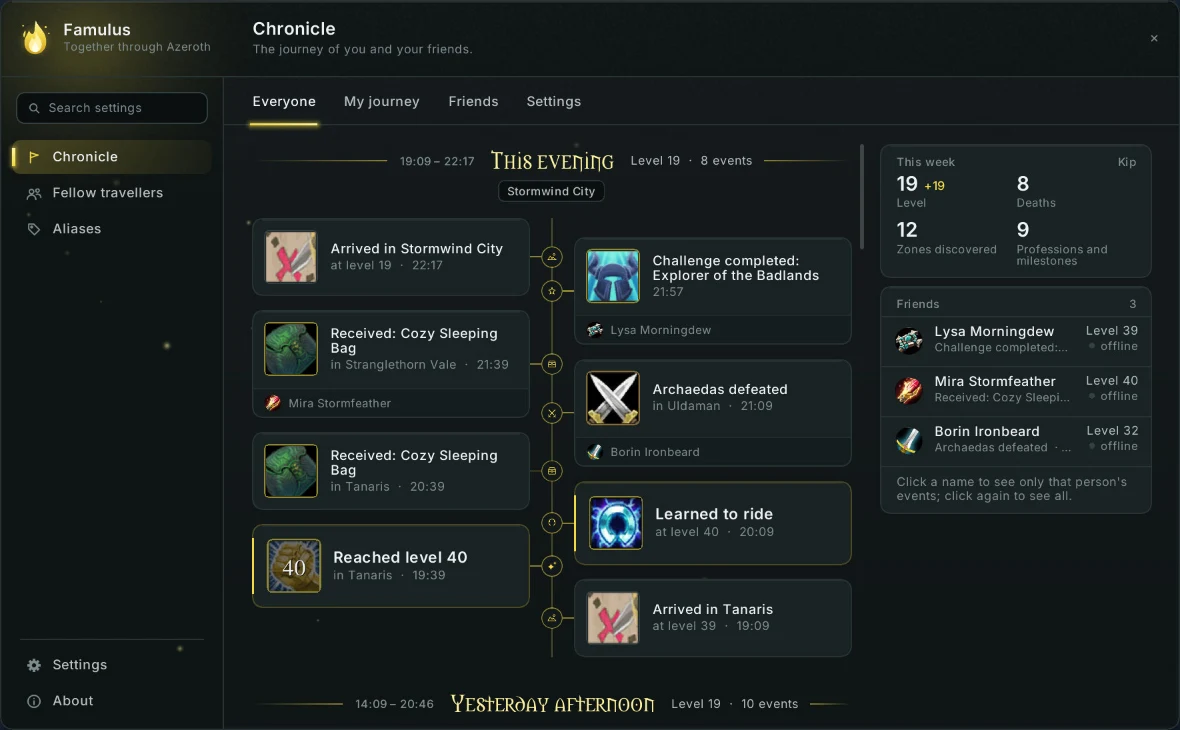
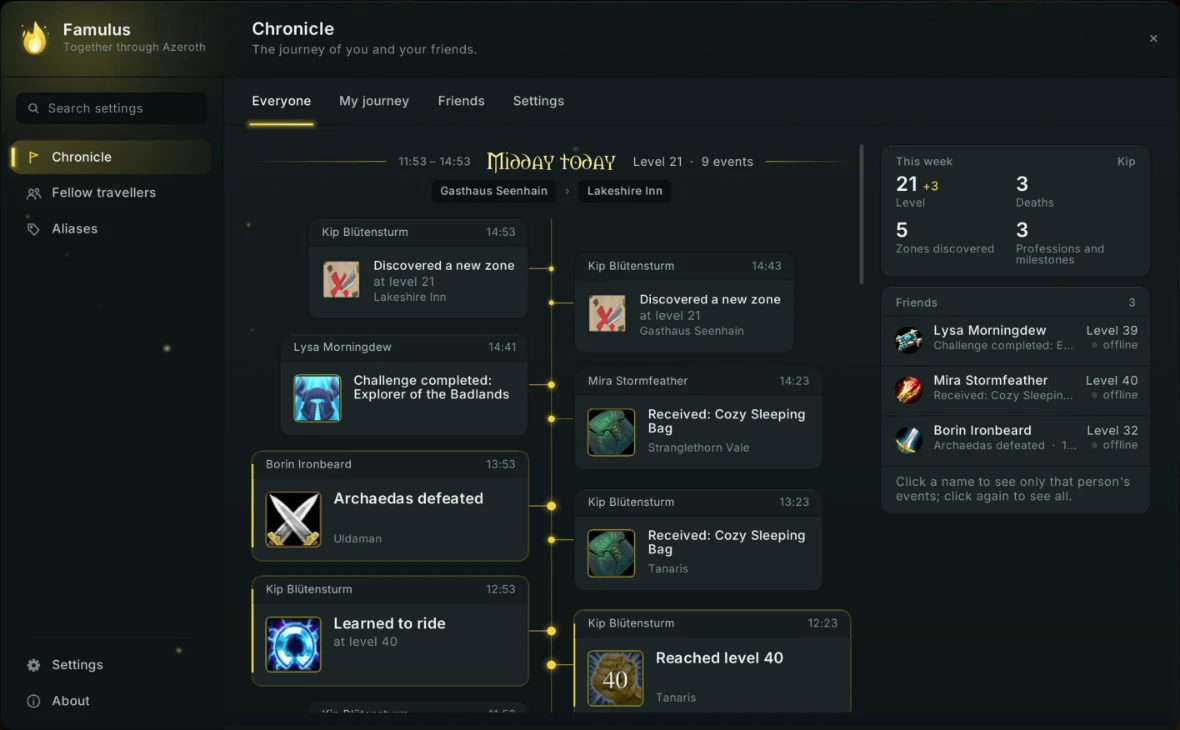
Show the current window in the header and a gallery of screenshots (#78)
- Header: Chronicle > Everyone from a screenshot of 2026-11-27 (client in
  English, sample data), at 1180 and 1770 as before
- New section 05 "In the game": six screenshots (fellow travellers, a
  story, groups, the live feed in the game, the welcome page, the aliases
  settings), each a link to its large version, with captions and alt
  texts in English and German; installation becomes 06
- docs/website.md: the crops, the sources and why some shots stay out

diff --git a/website/index.html b/website/index.html
@@ -348,7 +348,70 @@
       </div>
     </section>
 
-    <!-- 05 Install ---------------------------------------------------------->
+    <!-- 05 In the game: screenshots of the addon in the game, with the
+         samples of /fam chronicle demo and /fam fellows demo
+         (tools/make_shot.js). A click opens the large picture. -------------->
+    <section class="section" id="shots">
+      <div class="wrap">
+        <header class="section__head">
+          <p class="eyebrow reveal"><span class="eyebrow__num">05</span><span data-i18n="sh_eyebrow">In the game</span></p>
+          <h2 class="reveal" style="--i:1" data-i18n="sh_title">See it in the game.</h2>
+          <p class="lead reveal" style="--i:2" data-i18n="sh_lead">Screenshots from World of Warcraft: Forever, with the addon's sample data. A click opens the large picture.</p>
+        </header>
+        <div class="gallery">
+          <figure class="gallery__item reveal" style="--i:0">
+            <a href="assets/shots/fellows-1770.webp" target="_blank" rel="noopener">
+              <img src="assets/shots/fellows-1180.webp" srcset="assets/shots/fellows-1180.webp 1180w, assets/shots/fellows-1770.webp 1770w"
+                sizes="(max-width: 760px) calc(100vw - 48px), 560px" width="1180" height="730" loading="lazy"
+                alt="The fellow travellers in the Famulus window: three tiles for the closest companions, a list of everyone else." data-i18n-attr="alt:sh_fellows_alt">
+            </a>
+            <figcaption data-i18n="sh_fellows">Fellow travellers: your closest companions and everyone you grouped with.</figcaption>
+          </figure>
+          <figure class="gallery__item reveal" style="--i:1">
+            <a href="assets/shots/story-1770.webp" target="_blank" rel="noopener">
+              <img src="assets/shots/story-1180.webp" srcset="assets/shots/story-1180.webp 1180w, assets/shots/story-1770.webp 1770w"
+                sizes="(max-width: 760px) calc(100vw - 48px), 560px" width="1180" height="730" loading="lazy"
+                alt="A fellow traveller's card on the left, the book of your sessions together on the right." data-i18n-attr="alt:sh_story_alt">
+            </a>
+            <figcaption data-i18n="sh_story">Your story with Mira: your bond, your numbers and every session together.</figcaption>
+          </figure>
+          <figure class="gallery__item reveal" style="--i:0">
+            <a href="assets/shots/groups-1770.webp" target="_blank" rel="noopener">
+              <img src="assets/shots/groups-1180.webp" srcset="assets/shots/groups-1180.webp 1180w, assets/shots/groups-1770.webp 1770w"
+                sizes="(max-width: 760px) calc(100vw - 48px), 560px" width="1180" height="730" loading="lazy"
+                alt="The groups tab: sessions with the people in each group, and the most frequent group beside it." data-i18n-attr="alt:sh_groups_alt">
+            </a>
+            <figcaption data-i18n="sh_groups">Groups: who was out with whom, and who you play with most often.</figcaption>
+          </figure>
+          <figure class="gallery__item reveal" style="--i:1">
+            <a href="assets/shots/feed-1110.webp" target="_blank" rel="noopener">
+              <img src="assets/shots/feed-1110.webp" srcset="assets/shots/feed-1110.webp 1110w"
+                sizes="(max-width: 760px) calc(100vw - 48px), 560px" width="1110" height="687" loading="lazy"
+                alt="Live feed cards over the game world: a friend has fallen, below it a boss and a level-up as rows." data-i18n-attr="alt:sh_feed_alt">
+            </a>
+            <figcaption data-i18n="sh_feed">The live feed in the game: the newest card on top, older ones as rows.</figcaption>
+          </figure>
+          <figure class="gallery__item reveal" style="--i:0">
+            <a href="assets/shots/welcome-1770.webp" target="_blank" rel="noopener">
+              <img src="assets/shots/welcome-1180.webp" srcset="assets/shots/welcome-1180.webp 1180w, assets/shots/welcome-1770.webp 1770w"
+                sizes="(max-width: 760px) calc(100vw - 48px), 560px" width="1180" height="730" loading="lazy"
+                alt="The welcome page with the three areas, the main button and the list of what it switches on." data-i18n-attr="alt:sh_welcome_alt">
+            </a>
+            <figcaption data-i18n="sh_welcome">The welcome page: one click switches on the main features.</figcaption>
+          </figure>
+          <figure class="gallery__item reveal" style="--i:1">
+            <a href="assets/shots/aliases-1770.webp" target="_blank" rel="noopener">
+              <img src="assets/shots/aliases-1180.webp" srcset="assets/shots/aliases-1180.webp 1180w, assets/shots/aliases-1770.webp 1770w"
+                sizes="(max-width: 760px) calc(100vw - 48px), 560px" width="1180" height="730" loading="lazy"
+                alt="The aliases settings: the features on the left, the chosen one with a picture of the chat on the right." data-i18n-attr="alt:sh_aliases_alt">
+            </a>
+            <figcaption data-i18n="sh_aliases">Aliases in the settings, with a live picture of the chat.</figcaption>
+          </figure>
+        </div>
+      </div>
+    </section>
+
+    <!-- 06 Install ---------------------------------------------------------->
     <section class="section section--last" id="install">
       <div class="scene scene--foot" id="scene-foot" aria-hidden="true">
         <div class="scene__glow"></div>
@@ -356,7 +419,7 @@
       </div>
       <div class="wrap">
         <header class="section__head">
-          <p class="eyebrow reveal"><span class="eyebrow__num">05</span><span data-i18n="in_eyebrow">Installation</span></p>
+          <p class="eyebrow reveal"><span class="eyebrow__num">06</span><span data-i18n="in_eyebrow">Installation</span></p>
           <h2 class="reveal" style="--i:1" data-i18n="in_title">Ready in a minute.</h2>
         </header>
 

diff --git a/website/i18n.js b/website/i18n.js
@@ -416,6 +416,21 @@ window.FAMULUS_I18N = {
     fd_move: 'Platz verschieben',
 
     // 05 Install
+    sh_eyebrow: 'Im Spiel',
+    sh_title: 'So sieht es im Spiel aus.',
+    sh_lead: 'Screenshots aus World of Warcraft: Forever, mit den Beispieldaten des Addons. Ein Klick öffnet das große Bild.',
+    sh_fellows: 'Weggefährten: deine engsten Gefährten und alle, mit denen du in einer Gruppe warst.',
+    sh_fellows_alt: 'Die Weggefährten im Famulus-Fenster: drei Kacheln für die engsten Gefährten, eine Liste mit allen anderen.',
+    sh_story: 'Eure Geschichte mit Mira: eure Verbundenheit, eure Zahlen und jede gemeinsame Spielsitzung.',
+    sh_story_alt: 'Links die Karte eines Weggefährten, rechts das Buch eurer gemeinsamen Spielsitzungen.',
+    sh_groups: 'Gruppen: wer mit wem unterwegs war und mit wem du am häufigsten spielst.',
+    sh_groups_alt: 'Der Tab Gruppen: Spielsitzungen mit den Leuten jeder Gruppe, daneben die häufigste Gruppe.',
+    sh_feed: 'Die Live-Einblendung im Spiel: die neueste Karte oben, ältere als Zeilen.',
+    sh_feed_alt: 'Eingeblendete Karten über der Spielwelt: ein Freund ist gefallen, darunter ein Boss und ein Stufenaufstieg als Zeilen.',
+    sh_welcome: 'Die Willkommensseite: Ein Klick schaltet die wichtigsten Funktionen ein.',
+    sh_welcome_alt: 'Die Willkommensseite mit den drei Bereichen, dem Hauptknopf und der Liste, was er einschaltet.',
+    sh_aliases: 'Aliase in den Einstellungen, mit einem Live-Bild des Chats.',
+    sh_aliases_alt: 'Die Einstellungen der Aliase: links die Funktionen, rechts die gewählte mit einem Bild des Chats.',
     in_eyebrow: 'Installation',
     in_title: 'In einer Minute startklar.',
     in_s1_t: 'Installieren',

diff --git a/website/styles.css b/website/styles.css
@@ -776,6 +776,18 @@ div.nrow:hover { background-color: transparent; }
 /* ---------- Installation ---------- */
 
 /* The page ends as it began: the sky comes up out of the ground of the page. */
+/* ---------- In the game: screenshots ---------- */
+
+.gallery { display: grid; grid-template-columns: repeat(2, minmax(0, 1fr)); gap: clamp(20px, 3vw, 36px); }
+.gallery__item { margin: 0; }
+.gallery__item a { display: block; overflow: hidden; border-radius: 12px; border: 1px solid var(--card-border); box-shadow: var(--sheen), 0 24px 60px -30px rgb(0 0 0 / 0.9); transition: border-color 0.3s, transform 0.3s var(--ease); }
+.gallery__item a:hover { border-color: var(--card-active); transform: translateY(-3px); }
+.gallery__item img { display: block; width: 100%; height: auto; }
+.gallery__item figcaption { margin-top: 12px; font-size: 14px; color: var(--text-dim); }
+@media (max-width: 760px) {
+  .gallery { grid-template-columns: minmax(0, 1fr); }
+}
+
 .section--last { padding-bottom: clamp(300px, 42vw, 540px); }
 .scene--foot {
   inset: auto 0 0 0; height: clamp(460px, 68vw, 860px); z-index: -1;

diff --git a/docs/website.md b/docs/website.md
@@ -41,7 +41,8 @@ owner.
   addon's window as a screenshot, with live feed banners over it (see "Window in the header") →
   01 Chronicle (the picture book with the tabs Everyone, My journey, Companions) →
   02 Fellow travellers → 03 Live feed (can be triggered, position can be moved) → 04 Aliases (the
-  window rebuilt and usable, below it chat and tooltip "in game") → 05 Installation → footer with
+  window rebuilt and usable, below it chat and tooltip "in game") → 05 In the game (screenshots,
+  since 2026-11-27, see "Gallery") → 06 Installation → footer with
   a note on Blizzard's trademark. Tinted background (`section--tinted`) and glow still alternate
   from section to section. The skip link and "What it does" lead to the chronicle (the arrow in the
   header has been gone since the window in the header).
@@ -185,13 +186,33 @@ owner.
   - **For the capture:** client and Famulus in English (otherwise item and class names stay
     German, see "Sample entries"), then `/fam chronicle demo` and
     `/fam fellows demo`.
-  - **State:** The image is Chronicle › Everyone, from the screenshot
-    `WoWScrnShot_112426_221759.jpg` (client in English, sample data; window edges at x 1022,
-    y 476, 1770 × 1095). Visible in the image: the first name of your own character ("Kip", card
-    "This week") and "Level 19" in the chapter head next to the sample "Reached level 40", because
-    the samples mix with the real entries of a character at level 19. Sent along by the owner and
-    not yet used: Fellow travellers › Overview (`…_221819.jpg`) and Borin's story
-    (`…_221836.jpg`).
+  - **State (since 2026-11-27, the owner's choice of three):** Chronicle › Everyone, from a
+    screenshot on the Mac (`Bildschirmfoto 2026-11-27 um 15.35.00.png`, 5120 × 2880, client and
+    Famulus in English, sample data). The window is 2832 × 1752 at x 1170, y 410 (2.4 times its
+    1180 × 730; edges found on enlarged crops of the corners with `sips`), written at 1180 and
+    1770 as before. Visible in it: the owner's character "Kip Blütensturm" (strips, "This week";
+    the owner: fine) and the route "Gasthaus Seenhain › Lakeshire Inn", the same inn in German and
+    English, because entries from a German client mix with English ones. Before: the screenshot
+    `WoWScrnShot_112426_221759.jpg` of 2026-11-24.
+  - **Taking screenshots on the Mac:** the game's own key writes nothing there
+    (`_forever_/Screenshots` does not exist); the owner uses macOS's own (Cmd+Shift+3), which
+    lands on the desktop as `Bildschirmfoto <date> um <time>.png`. The window stood at the same
+    place in every shot of 2026-11-27, so one frame fits them all.
+- **Gallery "In the game" (2026-11-27, the owner's request: "header and gallery"; layout and
+  captions the assistant's decisions, not yet seen by the owner):** section 05 between the
+  aliases and the installation, two columns (one below 760 px), each picture a link to its
+  large version in a new tab, a caption below (`sh_<name>`) and its own alt text
+  (`sh_<name>_alt`). Pictures (`assets/shots/<name>-<width>.webp`, cut with
+  `tools/make_shot.js` from the same screenshots): `fellows` (Overview, 15.35.04), `story`
+  (Mira, 15.35.17), `groups` (15.36.03), `feed` (`/fam feed test` over the game world, 15.44.25,
+  1110 × 687 at x 1980, y 230, the same shape as the window, so the grid stays even), `welcome`
+  (expanded, 15.37.59), `aliases` (Aliases › Settings with the chat picture, 15.38.29); the
+  windows at 1180 and 1770, the feed at 1110, about 40 to 100 KB each, loaded lazily. Not used:
+  "Nearby" and Chronicle › Friends filtered to one person, because they show real Battle.net
+  friends; the game world around the window, because it shows other players' names. No entry in
+  the navigation. Checked at 1056 and 375 px, English and German: all six load, no horizontal
+  scrolling, no console messages (a `figure` keeps the browser's margin of 40 px unless set to
+  0; it did at first).
   - The header's live feed banners lie over the lower end of the window's right column,
     below its friends list, where the window fades out (`.shot__feed`, `top: 70%`), like
     Polestar's second window. At 50 % they covered the friends list. There they are
@@ -260,8 +281,7 @@ owner.
   `<link rel="canonical">`, `og:url`, `og:image` (needs an absolute URL and a preview image,
   1200 × 630) and `hreflang` alternates for `?lang=de`; until then search engines see only the
   English page.
-- **Deliberately not included yet:** Guildy (only once the PR there is accepted), more screenshots from the
-  game (so far only the window in the header), legal notice and privacy policy (needed before
+- **Deliberately not included yet:** Guildy (only once the PR there is accepted), legal notice and privacy policy (needed before
   publishing), the domain (the owner gets it), a preview image for shared
   links (see "Head and link previews"), WOFF2 fonts (the TTFs from the addon are loaded, ~100 KB
   each).
